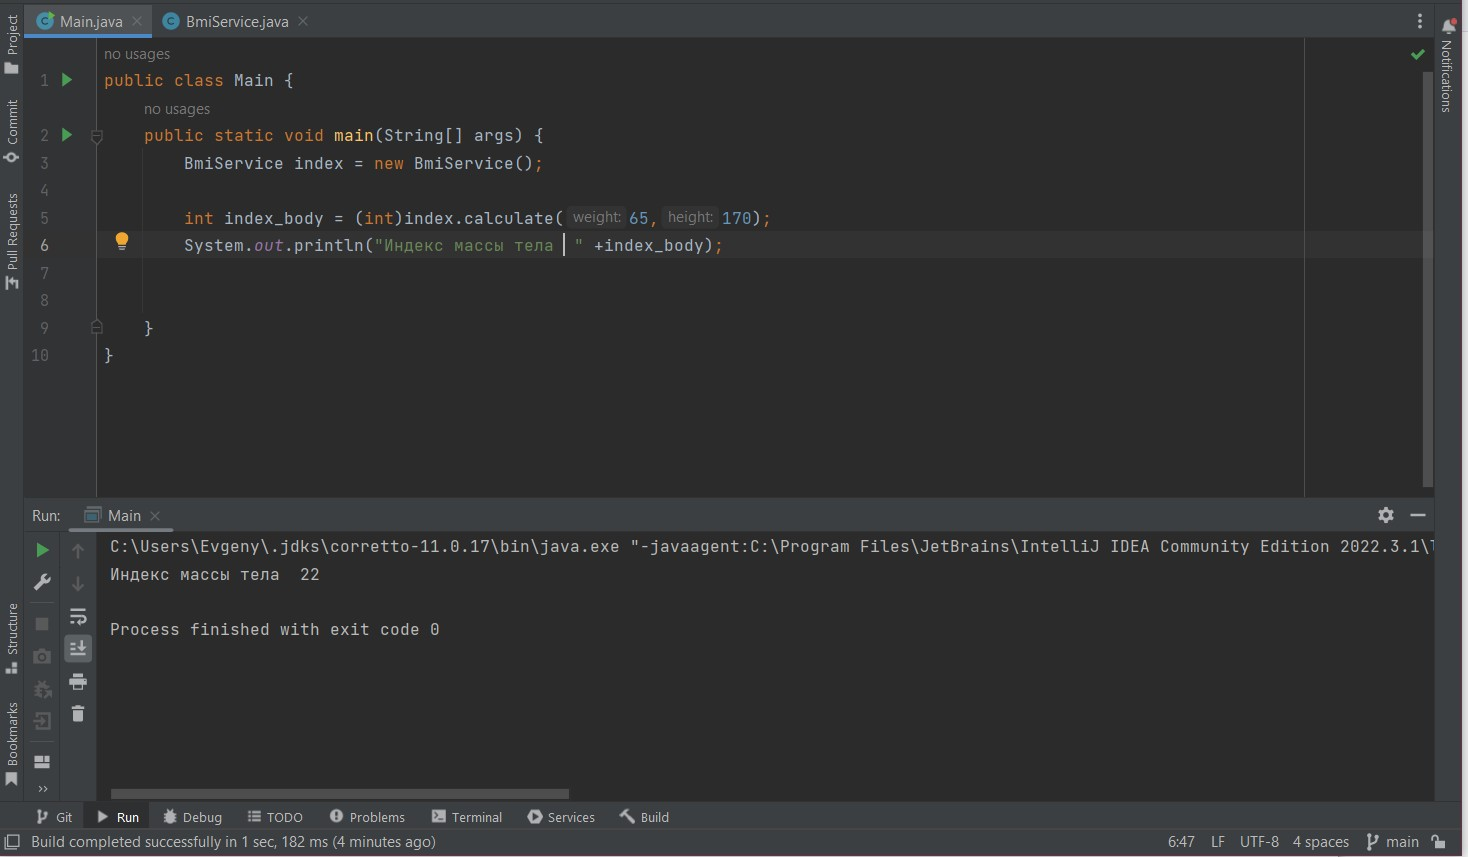
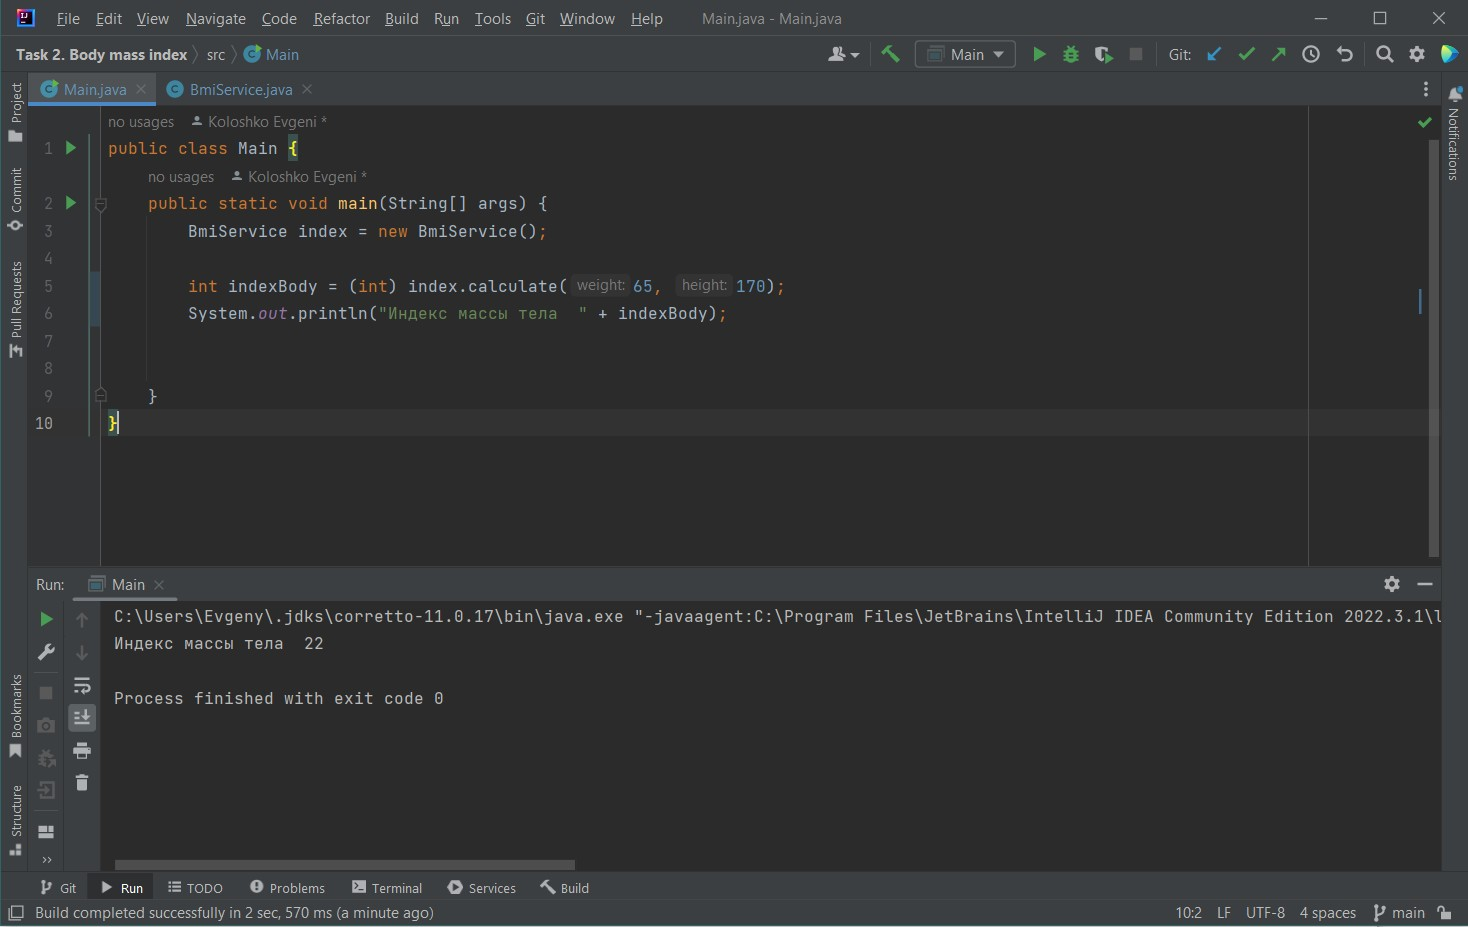
Fixed

diff --git a/src/Main.java b/src/Main.java
@@ -2,8 +2,8 @@ public class Main {
     public static void main(String[] args) {
         BmiService index = new BmiService();
 
-        int index_body = (int)index.calculate(65,170);
-        System.out.println("Индекс массы тела  " +index_body);
+        int indexBody = (int) index.calculate(65, 170);
+        System.out.println("Индекс массы тела  " + indexBody);
 
 
     }

diff --git a/src/BmiService.java b/src/BmiService.java
@@ -1,10 +1,8 @@
 public class BmiService {
-    public  double calculate(double weight, double height)
-    {
+    public double calculate(double weight, double height) {
 
-        double bmi =(weight/((height/100)*(height/100))) ;
-       return bmi;
-
+        double bmi = (weight / ((height / 100) * (height / 100)));
+        return bmi;
 
 
     }
